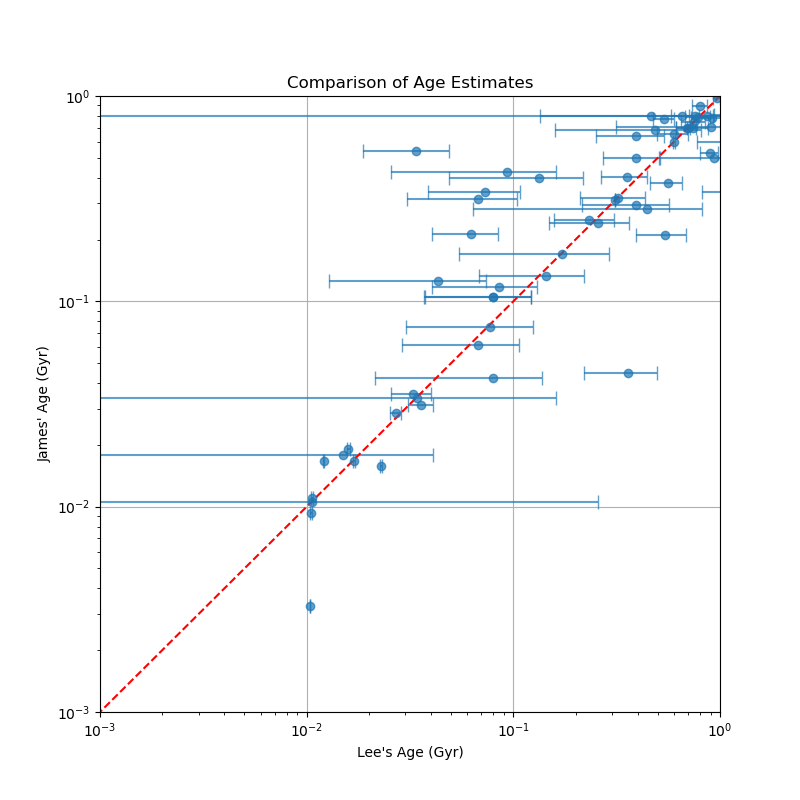
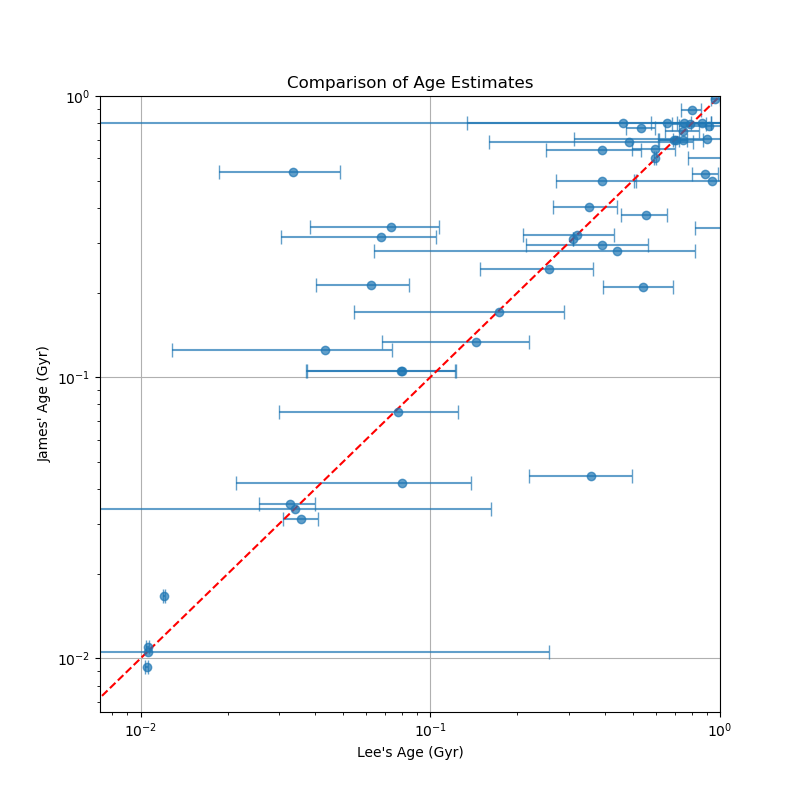
Added plots

diff --git a/comparison.py b/comparison.py
@@ -26,18 +26,30 @@ plt.grid()
 plt.show()
 plt.close() """
 #James' results
-james_results = pd.read_csv("results/interpolate_20260409_125607_candidate_fits.csv")
+james_results = pd.read_csv("results/interpolate_20260409_125607_candidate_james_fits.csv")
 james_results = james_results.drop_duplicates(subset=["hostname"], keep="first")
+
+#haygen's results
+haygen_results = pd.read_csv("results/interpolator_results_haygen.csv")
+haygen_results = haygen_results.drop_duplicates(subset=["hostname"], keep="first")
+print(haygen_results.columns)
+
 #convert age_yr to age_gyr
 james_results["age_gyr"] = james_results["age_yr"] / 1e9
+haygen_results["age_gyr"] = haygen_results["age_yr_model"] / 1e9
+haygen_results["age_gyr_err"] = haygen_results["age_yr_err"] / 1e9
+
 #filter for those that are in both, my under starname and James under hostname
-merged_results = pd.merge(results, james_results, left_on="starname", right_on="hostname", suffixes=('_mine', '_james'))
+jl_merged_results = pd.merge(results, james_results, left_on="starname", right_on="hostname", suffixes=('_mine', '_james'))
+hl_merged_results = pd.merge(results, haygen_results, left_on="starname", right_on="hostname", suffixes=('_mine', '_haygen'))
+#print header of hl merged results
+print(hl_merged_results.columns)
 #print column names of merged results
-print(merged_results.columns)
-print(len(merged_results))
+print(jl_merged_results.columns)
+print(len(jl_merged_results))
 #plot my age vs. James' age
 plt.figure(figsize=(8, 8))
-plt.errorbar(merged_results["age_gyr_mine"], merged_results["age_gyr_james"], xerr = merged_results["age_gyr_mc_err"], fmt = "o", alpha=0.7, capsize=5)
+plt.errorbar(jl_merged_results["age_gyr_mine"], jl_merged_results["age_gyr_james"], xerr = jl_merged_results["age_gyr_mc_err"], fmt = "o", alpha=0.7, capsize=5)
 plt.plot([0, 14], [0, 14], 'r--')  # 1:1 line
 plt.xlabel("Lee's Age (Gyr)")
 plt.ylabel("James' Age (Gyr)")
@@ -50,13 +62,25 @@ plt.grid()
 plt.savefig("plots/lee_vs_james_age_comparison_log.png")
 plt.close()
 
+#plot my age vs. Haygen's age
+plt.figure(figsize=(8, 8))
+plt.errorbar(hl_merged_results["age_gyr_mine"], hl_merged_results["age_gyr_haygen"], xerr = hl_merged_results["age_gyr_mc_err"], yerr = hl_merged_results["age_gyr_err"], fmt = "o", alpha=0.7, capsize=5)
+plt.plot([0, 14], [0, 14], 'r--')  # 1:1 line
+plt.xlabel("Lee's Age (Gyr)")
+plt.ylabel("Haygen's Age (Gyr)")
+plt.title("Comparison of Age Estimates")
+plt.xlim(0, 1)
+plt.ylim(0, 1)
+plt.grid()
+plt.savefig("plots/lee_vs_haygen_age_comparison.png")
+plt.close()
 #print stars where lee's age is less than 0.2 Gyr but James' age is greater than 0.2 Gyr
-young_lee_old_james = merged_results[(merged_results["age_gyr_mine"] < 0.2) & (merged_results["age_gyr_james"] > 0.2)]
+young_lee_old_james = jl_merged_results[(jl_merged_results["age_gyr_mine"] < 0.2) & (jl_merged_results["age_gyr_james"] > 0.2)]
 # Stars of interest
 stars = young_lee_old_james["starname"].tolist()
 
 # Keep only those rows
-subset = merged_results[merged_results["starname"].isin(stars)].copy()
+subset = jl_merged_results[jl_merged_results["starname"].isin(stars)].copy()
 
 # Bands to include
 bands = ["BP", "G", "RP", "J", "H", "K"]
@@ -85,5 +109,3 @@ long_table = pd.DataFrame(rows)
 
 # Optional: round for readability
 long_table = long_table.round(4)
-
-print(long_table.to_string(index=False))
